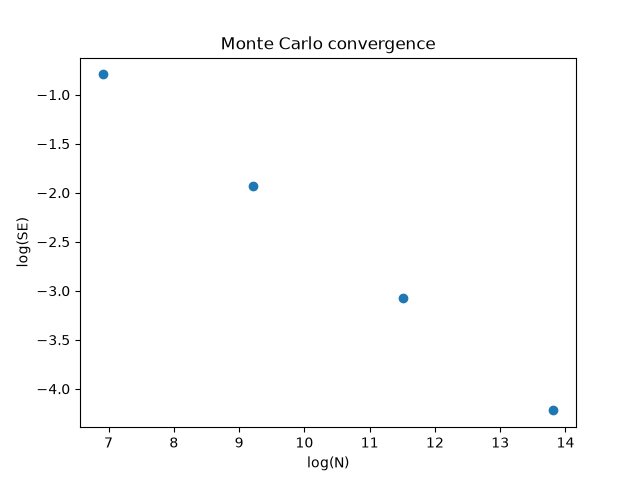
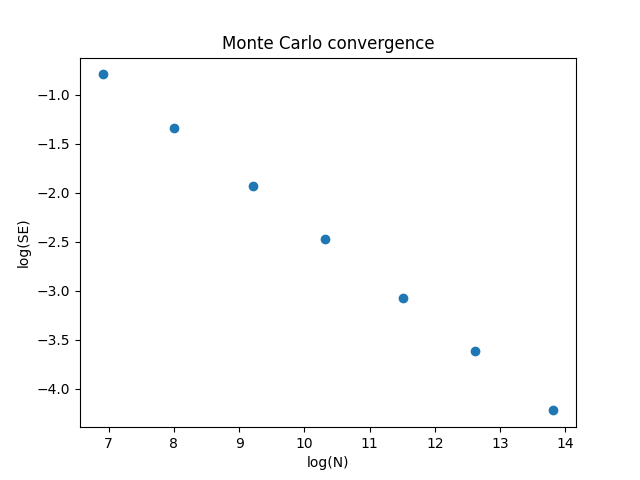
refactor pricer so that paths are returned from the simulations, and passed down to the pricer methods, rather than being stored on the class

diff --git a/pricing.py b/pricing.py
@@ -18,10 +18,6 @@ class MonteCarloPricer:
         self.rf = params.rf
         self.sigma = params.sigma
         self.iterations = iterations
-        self.terminal_prices = None
-        self.price_simulations = None
-        self.antithetic_price_simulations_pos = None
-        self.antithetic_price_simulations_neg = None
         
         self.rng = np.random.default_rng(rng_seed) if rng_seed is not None else np.random.default_rng()
         
@@ -31,20 +27,22 @@ class MonteCarloPricer:
     def simulate_price_paths(self, n: int = 252):
         dt = self.T/n
         z = self.rng.normal(0, 1, (self.iterations, n))
-        self.price_simulations = self.price_paths_from_shocks(dt, z)
+        return self.price_paths_from_shocks(dt, z)
 
     def simulate_terminal_prices(self):
         # simulate stock price at time T by simulating dS_t = \r_f*S_t*dt + \sigma * S_t * dW_t^Q
         # notice we are using risk neutral measure and using r_f instead of mu now
         # expected growth of asset = risk-free rate - the entire foundation of risk-free pricing
-        self.z = self.rng.normal(0, 1, self.iterations)
-        self.terminal_prices = self.S0 * np.exp((self.rf - 0.5 * self.sigma ** 2)*self.T + self.sigma * np.sqrt(self.T) * self.z)
+        z = self.rng.normal(0, 1, self.iterations)
+        terminal = self.S0 * np.exp((self.rf - 0.5 * self.sigma ** 2)*self.T + self.sigma * np.sqrt(self.T) * z)
+        return terminal, z
 
     def simulate_antithetic_price_paths(self, n: int = 252):
         dt = self.T/n
         z = self.rng.normal(0, 1, (self.iterations//2, n))
-        self.antithetic_price_simulations_pos = self.price_paths_from_shocks(dt, z)
-        self.antithetic_price_simulations_neg = self.price_paths_from_shocks(dt, -z)
+        paths_pos = self.price_paths_from_shocks(dt, z)
+        paths_neg = self.price_paths_from_shocks(dt, -z)
+        return paths_pos, paths_neg
     
     def price_result(self, payoffs):
         # discount to present time
@@ -56,50 +54,40 @@ class MonteCarloPricer:
         
         return price, standard_error
     
-    def european_call_price(self):
-        self.european_call_payoffs = np.maximum(self.terminal_prices - self.K, 0)
-        return self.price_result(self.european_call_payoffs)
-
-    def european_put_price(self):
-        payoffs = np.maximum(self.K - self.terminal_prices, 0)
-        return self.price_result(payoffs)
-
-    def european_call_price_from_paths(self):
-        terminal = self.price_simulations[:, -1]
+    def european_call_price(self, terminal):
         payoffs = np.maximum(terminal - self.K, 0)
         return self.price_result(payoffs)
 
-    def european_put_price_from_paths(self):
-        terminal = self.price_simulations[:, -1]
-        payoffs = np.maximum(self.K-terminal, 0)
+    def european_put_price(self, terminal):
+        payoffs = np.maximum(self.K - terminal, 0)
         return self.price_result(payoffs)
     
     # payoff of an asian call is max(avg price from history - K, 0)
     # so we don't just care about terminal price like a european, we care about all prices up to it
-    def arithmetic_asian_call_price(self):
-        avg_price_by_path = self.price_simulations.mean(axis=1)
+    def arithmetic_asian_call_price(self, paths):
+        avg_price_by_path = paths.mean(axis=1)
+        payoffs = np.maximum(avg_price_by_path - self.K, 0)
+        return self.price_result(payoffs)
+    
+    def arithmetic_asian_put_price(self, paths):
+        avg_price_by_path = paths.mean(axis=1)
+        payoffs = np.maximum(self.K - avg_price_by_path, 0)
+        return self.price_result(payoffs)
+    
+    def geometric_asian_call_price(self, paths):
+        geometric_avg_price_by_path = np.sqrt(paths[:,0]*paths[:,1])
+        payoffs = np.maximum(geometric_avg_price_by_path-self.K, 0)
+        return self.price_result(payoffs)
+    
+    def arithmetic_asian_call_price_with_control_variate(self, paths, exact_geometric_price):
+        avg_price_by_path = paths.mean(axis=1)
         arithmetic_asian_call_payoffs = np.maximum(avg_price_by_path - self.K, 0)
-        return self.price_result(arithmetic_asian_call_payoffs)
-    
-    def arithmetic_asian_put_price(self):
-        avg_price_by_path = self.price_simulations.mean(axis=1)
-        asian_payoffs = np.maximum(self.K - avg_price_by_path, 0)
-        return self.price_result(asian_payoffs)
-    
-    def geometric_asian_call_price(self):
-        geometric_avg_price_by_path = np.sqrt(self.price_simulations[:,0]*self.price_simulations[:,1])
+        
+        geometric_avg_price_by_path = np.sqrt(paths[:,0]*paths[:,1])
         geometric_asian_call_payoffs = np.maximum(geometric_avg_price_by_path-self.K, 0)
-        return self.price_result(geometric_asian_call_payoffs)
-    
-    def arithmetic_asian_call_price_with_control_variate(self, exact_geometric_price):
-        avg_price_by_path = self.price_simulations.mean(axis=1)
-        self.arithmetic_asian_call_payoffs = np.maximum(avg_price_by_path - self.K, 0)
         
-        geometric_avg_price_by_path = np.sqrt(self.price_simulations[:,0]*self.price_simulations[:,1])
-        self.geometric_asian_call_payoffs = np.maximum(geometric_avg_price_by_path-self.K, 0)
-        
-        X = self.arithmetic_asian_call_payoffs
-        Y = self.geometric_asian_call_payoffs
+        X = arithmetic_asian_call_payoffs
+        Y = geometric_asian_call_payoffs
         
         beta = np.cov(X, Y)[0,1] / np.var(Y)
         Z = X - beta * (Y - exact_geometric_price*np.exp(self.rf*self.T))
@@ -107,14 +95,14 @@ class MonteCarloPricer:
         price, std_error = self.price_result(Z)
         return price, std_error, beta
     
-    def arithmetic_asian_call_price_with_antithetic_variate(self):
-        avg_price_by_path_pos = self.antithetic_price_simulations_pos.mean(axis=1)
-        avg_price_by_path_neg = self.antithetic_price_simulations_neg.mean(axis=1)
+    def arithmetic_asian_call_price_with_antithetic_variate(self, paths_pos, paths_neg):
+        avg_price_by_path_pos = paths_pos.mean(axis=1)
+        avg_price_by_path_neg = paths_neg.mean(axis=1)
         
-        self.asian_payoffs_antithetic_pos = np.maximum(avg_price_by_path_pos - self.K, 0)
-        self.asian_payoffs_antithetic_neg = np.maximum(avg_price_by_path_neg - self.K, 0)
+        payoffs_pos = np.maximum(avg_price_by_path_pos - self.K, 0)
+        payoffs_neg = np.maximum(avg_price_by_path_neg - self.K, 0)
         
-        payoffs_avg = 0.5*(self.asian_payoffs_antithetic_pos+self.asian_payoffs_antithetic_neg)
+        payoffs_avg = 0.5*(payoffs_pos+payoffs_neg)
         
         discounted_payoffs = payoffs_avg * np.exp(-self.rf * self.T)
 
@@ -124,17 +112,17 @@ class MonteCarloPricer:
         return price, standard_error
     
     def delta_using_pathwise_differentiation(self):
-        self.simulate_price_paths(2)
-        ST = self.price_simulations[:,-1]
+        paths = self.simulate_price_paths(2)
+        ST = paths[:,-1]
         pathwise_samples = np.exp(-self.rf*self.T)*np.where(ST>self.K, ST/self.S0, 0)
         pathwise_delta = np.mean(pathwise_samples)
         std_error = np.std(pathwise_samples) / np.sqrt(self.iterations)
         return pathwise_delta, std_error
     
     def delta_using_likelihood_ratio(self):
-        self.simulate_terminal_prices()
-        self.european_call_price()
-        likelihood_ratio_samples = (np.exp(-self.rf*self.T)*self.european_call_payoffs*self.z) / (self.S0 * self.sigma * np.sqrt(self.T))
+        terminal, z = self.simulate_terminal_prices()
+        payoffs = np.maximum(terminal - self.K, 0)
+        likelihood_ratio_samples = (np.exp(-self.rf*self.T)*payoffs*z) / (self.S0 * self.sigma * np.sqrt(self.T))
         likelihood_ratio_delta = np.mean(likelihood_ratio_samples)
         std_error = np.std(likelihood_ratio_samples) / np.sqrt(self.iterations)
         return likelihood_ratio_delta, std_error

diff --git a/test_pricing.py b/test_pricing.py
@@ -10,10 +10,10 @@ iterations = 100000
 params = MarketParams(S0, K, T, rf, sigma)
 
 mc_pricer = MonteCarloPricer(params, iterations, 10101010)
-mc_pricer.simulate_terminal_prices()
+terminal, _ = mc_pricer.simulate_terminal_prices()
 
 print('=====testing european call price: MC vs Black-Scholes=====')
-mc_european_call, std_error = mc_pricer.european_call_price()
+mc_european_call, std_error = mc_pricer.european_call_price(terminal)
 bs_european_call = bs_european_call_price(params)
 print('mc european call price {:.3f}'.format(mc_european_call))
 print('bs european call price {:.3f}'.format(bs_european_call))
@@ -21,7 +21,7 @@ print('standard error {:.4f}\n'.format(std_error))
 assert(abs(mc_european_call - bs_european_call) < 2 * std_error) # will fail about 5% of the time
 
 print('=====testing european put price: MC vs Black-Scholes=====')
-mc_european_put, std_error = mc_pricer.european_put_price()
+mc_european_put, std_error = mc_pricer.european_put_price(terminal)
 bs_european_put = bs_european_put_price(params)
 print('mc european put price {:.3f}'.format(mc_european_put))
 print('bs european put price {:.3f}'.format(bs_european_put))
@@ -34,14 +34,14 @@ assert(abs(bs_european_call - bs_european_put - S0 + K * np.exp(-rf * T)) < 1e-1
 
 print('=====testing put-call parity: MC (approximate)=====')
 # put-call parity holds for MC (not exact, but good)
-discounted_terminal_prices = np.exp(-rf * T) * mc_pricer.terminal_prices
+discounted_terminal_prices = np.exp(-rf * T) * terminal
 std_error_pc_parity = np.std(discounted_terminal_prices) / np.sqrt(mc_pricer.iterations)
 assert(abs(mc_european_call - mc_european_put - S0 + K * np.exp(-rf * T)) < 2 * std_error_pc_parity)
 
 print('=====testing european call price from full path simulation: MC vs Black-Scholes=====')
 # ensuring that the method that simulated the full price paths (instead of just the terminal prices) is valid
-mc_pricer.simulate_price_paths(2)
-mc_european_call_from_paths, std_error = mc_pricer.european_call_price_from_paths()
+paths = mc_pricer.simulate_price_paths(2)
+mc_european_call_from_paths, std_error = mc_pricer.european_call_price(paths[:, -1])
 
 print('mc european call price (full path simulation) {:.3f}'.format(mc_european_call_from_paths))
 print('bs european call price {:.3f}'.format(bs_european_call))
@@ -52,7 +52,7 @@ assert(abs(mc_european_call_from_paths - bs_european_call) < 2 * std_error)
 print('=====testing asian call price: MC vs 2-step binomial model=====')
 # attempting to validate asian call option price from MC against 2-step binomial model
 # but it doesn't work because n=2 is too small for the tree itself to be accurate
-mc_asian_call, std_error_mc_asian_call = mc_pricer.arithmetic_asian_call_price()
+mc_asian_call, std_error_mc_asian_call = mc_pricer.arithmetic_asian_call_price(paths)
 binomial_asian_call = binomial_arithmetic_asian_call_price(params)
 print('mc (n=2) asian call price {:.3f}'.format(mc_asian_call))
 print('binomial model (n=2) asian call price {:.3f} (not a good anchor, too high here)'.format(binomial_asian_call))
@@ -68,7 +68,7 @@ print('bs european call price {:.3f}\n'.format(bs_european_call))
 
 
 print('=====testing geometric asian call price=====')
-mc_geometric_asian_call, std_error_geometric = mc_pricer.geometric_asian_call_price()
+mc_geometric_asian_call, std_error_geometric = mc_pricer.geometric_asian_call_price(paths)
 bs_geometric_asian_call = bs_geometric_asian_call_price(params)
 print('mc (n=2) geometric asian call price {:.3f}'.format(mc_geometric_asian_call))
 print('bs geometric asian call price {:.3f}'.format(bs_geometric_asian_call))
@@ -77,24 +77,36 @@ assert(abs(mc_geometric_asian_call - bs_geometric_asian_call) < 2 * std_error_ge
 
 
 print('=====testing arithmetic asian call price: MC vs control variate')
-mc_asian_call_control_variate, std_error, beta = mc_pricer.arithmetic_asian_call_price_with_control_variate(bs_geometric_asian_call)
+mc_asian_call_control_variate, std_error, beta = mc_pricer.arithmetic_asian_call_price_with_control_variate(paths, bs_geometric_asian_call)
 print('mc (n=2) asian call price {:.3f}'.format(mc_asian_call))
 print('arithmetic asian call price with control variate {:.3f}'.format(mc_asian_call_control_variate))
 print('standard error {:.4f}'.format(std_error))
 print('beta {:.4f}'.format(beta))
-rho = np.corrcoef(mc_pricer.arithmetic_asian_call_payoffs, mc_pricer.geometric_asian_call_payoffs)[0, 1]
+
+avg_price_by_path = paths.mean(axis=1)
+arithmetic_asian_call_payoffs = np.maximum(avg_price_by_path - mc_pricer.K, 0)
+geometric_avg_price_by_path = np.sqrt(paths[:,0]*paths[:,1])
+geometric_asian_call_payoffs = np.maximum(geometric_avg_price_by_path-mc_pricer.K, 0)
+
+rho = np.corrcoef(arithmetic_asian_call_payoffs, geometric_asian_call_payoffs)[0, 1]
 print('correlation between arithmetic and geometric payoffs (rho) {:.4f}\n'.format(rho))
 assert(abs(mc_asian_call - mc_asian_call_control_variate) < 2 * beta * std_error_geometric)
 
 
 print("=====testing arithmetic asian call price: MC vs antithetic variate")
-mc_pricer.simulate_antithetic_price_paths(2)
-mc_asian_call_antithetic_variate, std_error = mc_pricer.arithmetic_asian_call_price_with_antithetic_variate()
+paths_pos, paths_neg = mc_pricer.simulate_antithetic_price_paths(2)
+mc_asian_call_antithetic_variate, std_error = mc_pricer.arithmetic_asian_call_price_with_antithetic_variate(paths_pos, paths_neg)
 print('mc (n=2) asian call price {:.3f}'.format(mc_asian_call))
 print('arithmetic asian call price with antithetic variate {:.3f}'.format(mc_asian_call_antithetic_variate))
 print('standard error in antithetic estimate {:.4f}'.format(std_error))
 print('standard error in mc estimate {:.4f}'.format(std_error_mc_asian_call))
 print('standard error overall {:.4f}'.format(np.sqrt(std_error**2 + std_error_mc_asian_call**2)))
-rho = np.corrcoef(mc_pricer.asian_payoffs_antithetic_pos, mc_pricer.asian_payoffs_antithetic_neg)[0, 1]
+
+avg_price_by_path_pos = paths_pos.mean(axis=1)
+avg_price_by_path_neg = paths_neg.mean(axis=1)
+asian_payoffs_antithetic_pos = np.maximum(avg_price_by_path_pos - mc_pricer.K, 0)
+asian_payoffs_antithetic_neg = np.maximum(avg_price_by_path_neg - mc_pricer.K, 0)
+
+rho = np.corrcoef(asian_payoffs_antithetic_pos, asian_payoffs_antithetic_neg)[0, 1]
 print('correlation between positive and negative payoffs (rho) {:.4f}'.format(rho))
 assert(abs(mc_asian_call - mc_asian_call_antithetic_variate) < 2 * np.sqrt(std_error**2 + std_error_mc_asian_call**2))

diff --git a/test_greeks.py b/test_greeks.py
@@ -14,13 +14,13 @@ print(f'exact Δ = N(d_1) = {delta:.4f}\n')
 def fd_delta(h, seed_base, seed_bumped, print_details):
     params = MarketParams(S0, K, T, rf, sigma)
     mc_pricer_base = MonteCarloPricer(params, iterations, seed_base)
-    mc_pricer_base.simulate_price_paths(2)
-    c, _ = mc_pricer_base.european_call_price_from_paths()
+    paths = mc_pricer_base.simulate_price_paths(2)
+    c, _ = mc_pricer_base.european_call_price(paths[:, -1])
 
     params_bumped = MarketParams(S0+h, K, T, rf, sigma)
     mc_pricer_bumped = MonteCarloPricer(params_bumped, iterations, seed_bumped)
-    mc_pricer_bumped.simulate_price_paths(2)
-    c_h, _ = mc_pricer_bumped.european_call_price_from_paths()
+    paths = mc_pricer_bumped.simulate_price_paths(2)
+    c_h, _ = mc_pricer_bumped.european_call_price(paths[:, -1])
     delta_approx = (c_h - c) / h
     
     if print_details:

diff --git a/test_var.py b/test_var.py
@@ -27,8 +27,8 @@ for iterations in [1000, 10000, 100000]:
         params = MarketParams(S_10d[i], K, T-10/252, rf, sigma)
         # using CRN here, as it reduces noise in the pnl differencess
         mc_pricer = MonteCarloPricer(params, iterations, 10101010)
-        mc_pricer.simulate_terminal_prices()
-        V[i], _ = mc_pricer.european_call_price()
+        terminal, _ = mc_pricer.simulate_terminal_prices()
+        V[i], _ = mc_pricer.european_call_price(terminal)
     end = perf_counter()
         
     pnl = V - V0

diff --git a/test_convergence.py b/test_convergence.py
@@ -14,8 +14,8 @@ df = {'num_iterations':[], 'price': [], 'std_error': []}
 
 for iterations in [1000, 3000, 10000, 30000, 100000, 300000, 1000000]:
     mc_pricer = MonteCarloPricer(params, iterations, 101010)
-    mc_pricer.simulate_price_paths(2)
-    price, std_error = mc_pricer.european_call_price_from_paths()
+    paths = mc_pricer.simulate_price_paths(2)
+    price, std_error = mc_pricer.european_call_price(paths[:, -1])
     
     df['num_iterations'].append(iterations)
     df['price'].append(price)
